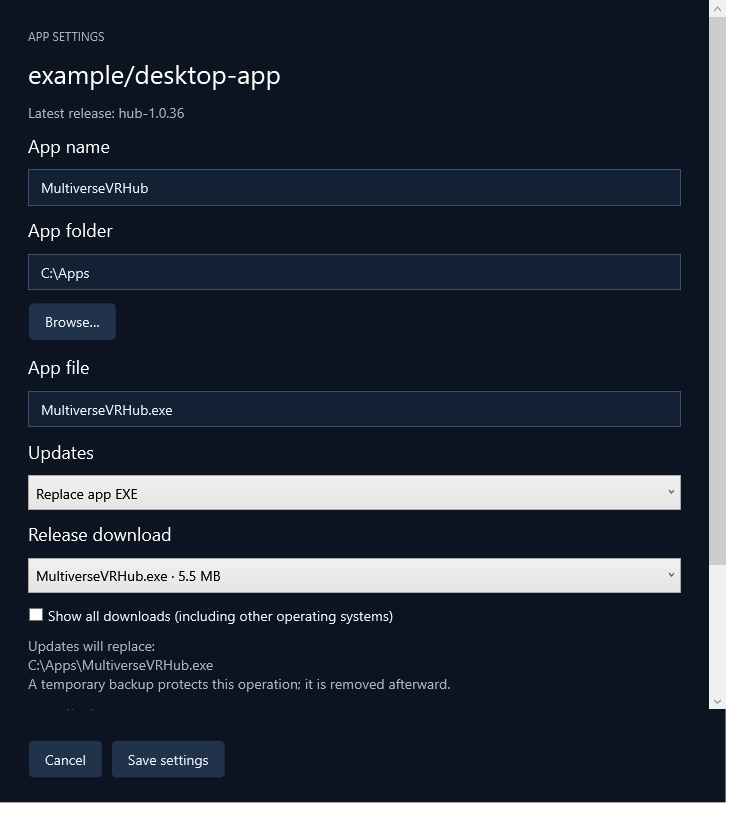
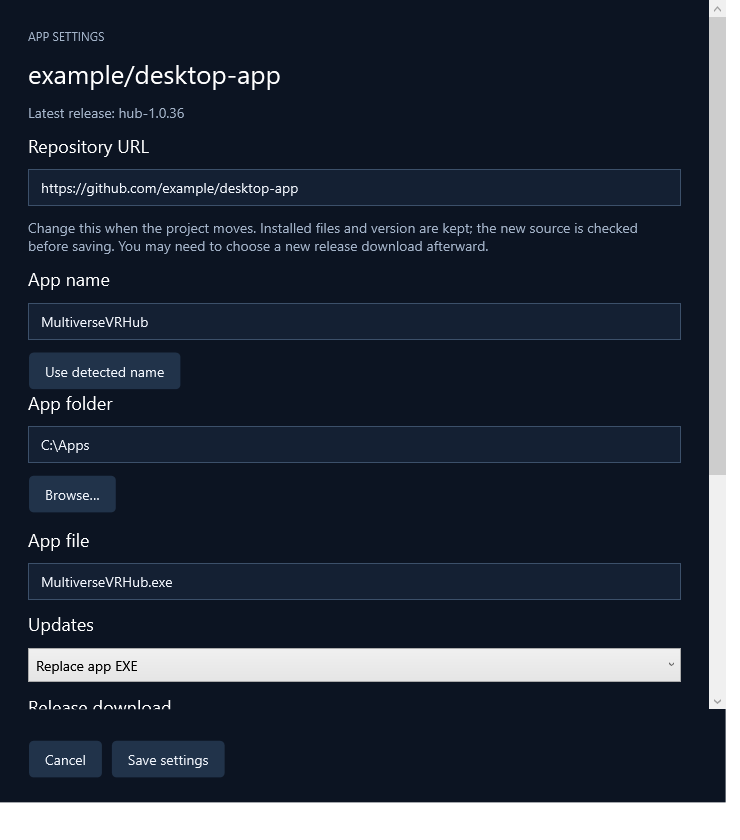
Fix automatic app names and support repository URL migration

diff --git a/ReleaseDock/MainWindow.xaml b/ReleaseDock/MainWindow.xaml
@@ -12,7 +12,7 @@
    <Border Grid.Column="2" Background="#142033" CornerRadius="12" Padding="24">
     <ScrollViewer VerticalScrollBarVisibility="Auto" HorizontalScrollBarVisibility="Disabled"><StackPanel>
      <TextBlock x:Name="AppTitle" Text="Bring your apps aboard." FontSize="26" FontWeight="SemiBold" TextWrapping="Wrap"/>
-     <TextBlock x:Name="SourceLabel" Foreground="#A4B4C9" Margin="0,6,0,0" TextWrapping="Wrap"/><TextBlock x:Name="VersionLabel" Text="Choose Add App to track an existing installation or install something new from a supported release host." Foreground="#A4B4C9" Margin="0,12,0,16" TextWrapping="Wrap"/>
+     <TextBlock Foreground="#A4B4C9" Margin="0,6,0,0" TextWrapping="Wrap"><Hyperlink x:Name="RepositoryLink" Foreground="#76DCC6" Click="Repository_Click"><Run x:Name="SourceLabel"/></Hyperlink></TextBlock><TextBlock x:Name="VersionLabel" Text="Choose Add App to track an existing installation or install something new from a supported release host." Foreground="#A4B4C9" Margin="0,12,0,16" TextWrapping="Wrap"/>
      <StackPanel x:Name="Details" Visibility="Collapsed">
       <TextBlock x:Name="StateLabel" Foreground="#76DCC6" FontSize="18" Margin="0,0,0,16"/>
       <Border x:Name="MissingBanner" Visibility="Collapsed" Background="#352D20" BorderBrush="#F0D495" BorderThickness="1" CornerRadius="6" Padding="16" Margin="0,0,0,18"><StackPanel><TextBlock Text="App not found" Foreground="#F0D495" FontSize="22" FontWeight="SemiBold"/><TextBlock x:Name="MissingMessage" TextWrapping="Wrap" Margin="0,8,0,12"/><WrapPanel><Button x:Name="FindInstallationButton" Content="Find installation…" Click="FindInstallation_Click" Background="#267E70"/><Button Content="Stop tracking" Click="Remove_Click"/></WrapPanel></StackPanel></Border><WrapPanel><Button x:Name="UpdateButton" Content="Update" Background="#267E70" Click="Update_Click" ToolTipService.ShowOnDisabled="True"/><Button Content="Release notes ↗" Click="Release_Click"/><Button x:Name="AppSettingsButton" Content="App settings" Click="AppSettings_Click"/></WrapPanel>

diff --git a/ReleaseDock/AppSettingsPage.cs b/ReleaseDock/AppSettingsPage.cs
@@ -17,13 +17,25 @@ public sealed class AppSettingsPage
     private readonly StackPanel filePanel, manualPanel;
     private readonly Window owner;
     private string checkedSource = "", checkedVersion = "", checkedFile = "";
+    private bool customName, updatingName;
+    private readonly TextBox? repository;
+    public string RepositoryKey => repository == null ? app.Repo : Repositories.Parse(repository.Text);
     public StackPanel Panel { get; } = new();
     private static void Name(DependencyObject control, string label) => System.Windows.Automation.AutomationProperties.SetName(control, label);
-    public AppSettingsPage(Window owner, TrackedApp app)
+    public AppSettingsPage(Window owner, TrackedApp app, bool allowRepositoryEdit = false)
     {
         this.owner = owner; this.app = app; draft = AppLocationDraft.From(app);
+        if (allowRepositoryEdit)
+        {
+            Panel.Children.Add(Ui.Text("Repository URL", 18));
+            repository = Ui.Input(app.RepositoryUrl); Name(repository, "Repository URL"); Panel.Children.Add(repository);
+            Panel.Children.Add(Ui.Text("Change this when the project moves. Installed files and version are kept; the new source is checked before saving. You may need to choose a new release download afterward.", muted: true));
+        }
         Panel.Children.Add(Ui.Text("App name", 18));
         appName = Ui.Input(app.AppName); Name(appName, "App name"); Panel.Children.Add(appName);
+        customName = !string.IsNullOrWhiteSpace(app.CustomName);
+        appName.TextChanged += (_, _) => { if (!updatingName) customName = !string.IsNullOrWhiteSpace(appName.Text); };
+        Panel.Children.Add(Ui.Button("Use detected name", (_, _) => { customName = false; Refresh(); }));
         Panel.Children.Add(Ui.Text("App folder", 18));
         folder = Ui.Input(draft.Folder); Name(folder, "App folder"); Panel.Children.Add(folder);
         Panel.Children.Add(Ui.Button("Browse…", (_, _) => { var picker = new OpenFolderDialog { Title = "Choose the app folder" }; if (picker.ShowDialog(owner) == true) folder.Text = picker.FolderName; }));
@@ -72,6 +84,12 @@ public sealed class AppSettingsPage
     private void Refresh()
     {
         ReadLocation(); filePanel.Visibility = Method == "ReplaceExe" || draft.FileName.Length > 0 ? Visibility.Visible : Visibility.Collapsed;
+        if (!customName)
+        {
+            updatingName = true;
+            try { appName.Text = AppNames.Suggest(new TrackedApp { Repo = app.Repo, AppFolder = draft.Folder, AppFile = draft.FileName, InstallLocation = draft.Folder }); }
+            finally { updatingName = false; }
+        }
         manualPanel.Visibility = automatic.IsChecked == true ? Visibility.Collapsed : Visibility.Visible;
         sourceLabel.Text = "Version source: " + (draft.VersionSource.Length > 0 ? draft.VersionSource : "App location (not set)");
         detected.Text = automatic.IsChecked == true ? checkedSource == draft.VersionSource && checkedSource.Length > 0 ? checkedVersion + " · Automatic detection\nRead from " + Path.GetFileName(checkedFile) : "Not checked for this location · Automatic detection" : (manual.Text.Length > 0 ? manual.Text : "Unknown") + " · Manual tracking";
@@ -97,19 +115,29 @@ public sealed class AppSettingsPage
     }
     public void Save(bool validate = true)
     {
-        app.CustomName = appName.Text.Trim();
+        var source = RepositoryKey;
+        var sourceChanged = !source.Equals(app.Repo, StringComparison.OrdinalIgnoreCase);
+        app.CustomName = customName ? appName.Text.Trim() : "";
+        if (!customName) app.InvalidateSuggestedName();
         if (!validate) { CaptureDraft(); return; }
         ReadLocation(); draft.Apply(app, Method);
         app.AutoReconcile = automatic.IsChecked == true; app.IncludePrereleases = previews.IsChecked == true;
         if (app.Installed != manual.Text.Trim()) app.InstalledProvenance = "Manually entered installed version";
         app.Installed = manual.Text.Trim();
-        if (assets.SelectedItem is ComboBoxItem { Tag: Asset asset }) { app.AssetName = asset.Name; if (validate) ReleaseFiles.Validate(app, asset); }
-        else if (validate && Method != "Manual") throw new InvalidOperationException("Choose a release download or use Download only.");
+        if (assets.SelectedItem is ComboBoxItem { Tag: Asset asset }) { app.AssetName = asset.Name; if (validate && !sourceChanged) ReleaseFiles.Validate(app, asset); }
+        else if (validate && !sourceChanged && Method != "Manual") throw new InvalidOperationException("Choose a release download or use Download only.");
         InstalledVersions.Reconcile(app);
+        if (sourceChanged)
+        {
+            app.Repo = source; app.Release = null; app.Latest = ""; app.CheckedAt = null; app.Error = "";
+            app.AssetName = ""; app.LastNotifiedTag = ""; app.DownloadedPath = ""; app.DownloadedTag = "";
+            app.UpdateState = "Repository changed — checking the new source";
+        }
     }
     public void CaptureDraft()
     {
-        app.CustomName = appName.Text.Trim();
+        app.CustomName = customName ? appName.Text.Trim() : "";
+        if (!customName) app.InvalidateSuggestedName();
         ReadLocation(); app.AppFolder = draft.Folder; app.AppFile = draft.FileName; app.VersionSourceOverride = draft.SourceOverride;
         app.PendingLocationConflict = draft.Conflict; app.UpdateMethod = Method;
         if (app.Installed != manual.Text.Trim()) app.InstalledProvenance = "Manually entered installed version";

diff --git a/ReleaseDock/AppSettingsTests.cs b/ReleaseDock/AppSettingsTests.cs
@@ -25,6 +25,30 @@ public static class AppSettingsTests
         try
         {
             var exe = Path.Combine(root, "MultiverseVRHub.exe");
+            var shared = Path.Combine(root, "apps"); Directory.CreateDirectory(shared);
+            File.WriteAllBytes(Path.Combine(shared, "MultiverseVRHub.exe"), PortableExeFixture.Bytes());
+            var coderFolder = Path.Combine(shared, "coder"); Directory.CreateDirectory(coderFolder);
+            File.WriteAllBytes(Path.Combine(coderFolder, "Coder.exe"), PortableExeFixture.Bytes());
+            var naming = new TrackedApp { Repo = "coder/coder", InstallLocation = shared };
+            var namingPage = new AppSettingsPage(owner, naming);
+            Check(Input(namingPage, "App name").Text == "coder", "Shared parent cannot supply unrelated EXE name");
+            Input(namingPage, "App folder").Text = coderFolder;
+            Check(Input(namingPage, "App name").Text == "Coder", "Automatic name refreshes for new folder");
+            namingPage.Save(); Check(naming.CustomName == "" && naming.AppName == "Coder", "Suggested name not saved as explicit override");
+            Input(namingPage, "App name").Text = "My Coder"; Input(namingPage, "App folder").Text = shared; namingPage.Save();
+            Check(naming.CustomName == "My Coder", "Deliberate name survives location changes");
+            Input(namingPage, "App folder").Text = coderFolder;
+            Find<Button>(namingPage.Panel).Single(b => Equals(b.Content, "Use detected name")).RaiseEvent(new RoutedEventArgs(Button.ClickEvent));
+            namingPage.Save(); Check(naming.CustomName == "" && naming.AppName == "Coder", "Detected-name action clears old override");
+            var movedSource = new AppSettingsPage(owner, naming, allowRepositoryEdit: true);
+            Check(Input(movedSource, "Repository URL").Text == "https://github.com/coder/coder", "Full canonical URL shown in settings");
+            naming.AssetName = "old.zip"; naming.Latest = "old"; naming.DownloadedPath = "old-cache";
+            Input(movedSource, "Repository URL").Text = "https://gitlab.com/group/subgroup/coder/-/releases"; movedSource.Save();
+            Check(naming.Repo == "https://gitlab.com/group/subgroup/coder" && naming.InstallLocation == coderFolder, "Cross-provider source move preserves install path");
+            Check(naming.AssetName == "" && naming.Latest == "" && naming.DownloadedPath == "", "Old source download/cache state cleared");
+            Input(movedSource, "Repository URL").Text = "https://untrusted.example/coder/coder";
+            try { movedSource.Save(); throw new Exception("Unsupported repository accepted"); } catch (ArgumentException) { Assertions++; }
+            Check(naming.Repo.StartsWith("https://gitlab.com/"), "Invalid source change preserves saved repository");
             var app = new TrackedApp { Repo = "test/app", Installed = "1.0.36.0", Latest = "hub-1.0.36", InstallLocation = exe, Release = new("hub-1.0.36", "", "", [new("MultiverseVRHub.exe", "", 3, null)]), AssetName = "MultiverseVRHub.exe" };
             var page = new AppSettingsPage(owner, app);
             Check(Input(page, "App name").Text == "MultiverseVRHub", "Settings suggest the installed EXE name");

diff --git a/ReleaseDock/SourceWizardTests.cs b/ReleaseDock/SourceWizardTests.cs
@@ -30,6 +30,30 @@ public static class SourceWizardTests
     {
         Assertions = 0;
         var handler = new Handler(); using var client = new ReleaseClient(handler);
+        var original = new TrackedApp { Repo = "owner/old", CustomName = "My App", Installed = "v1", UpdateMethod = "Manual" };
+        var edit = new SetupWindow(client, [], edit: original) { ShowActivated = false, WindowStartupLocation = WindowStartupLocation.Manual, Left = -20000, Top = -20000 };
+        try
+        {
+            Find<TextBox>(edit).Single(t => System.Windows.Automation.AutomationProperties.GetName(t) == "Repository URL").Text = "https://codeberg.org/owner/new";
+            var requests = handler.Requests;
+            _ = edit.Dispatcher.InvokeAsync(() => Find<Button>(edit).Single(b => Equals(b.Content, "Save settings")).RaiseEvent(new RoutedEventArgs(Button.ClickEvent)), System.Windows.Threading.DispatcherPriority.ApplicationIdle);
+            var timer = new System.Windows.Threading.DispatcherTimer { Interval = TimeSpan.FromSeconds(5) }; timer.Tick += (_, _) => { timer.Stop(); edit.Close(); }; timer.Start();
+            try { Check(edit.ShowDialog() == true, "Repository migration saves through real modal flow"); } finally { timer.Stop(); }
+            Check(handler.Requests == requests + 1 && edit.Result.Repo == "https://codeberg.org/owner/new", "New provider verified before settings accepted");
+            Check(original.Repo == "owner/old" && edit.Result.CustomName == "My App", "Source editing preserves original until accepted and keeps explicit name");
+        }
+        finally { edit.Close(); }
+        var editDuplicate = new SetupWindow(client, ["https://codeberg.org/owner/new"], edit: original);
+        try
+        {
+            Find<TextBox>(editDuplicate).Single(t => System.Windows.Automation.AutomationProperties.GetName(t) == "Repository URL").Text = "https://codeberg.org/owner/new";
+            var requests = handler.Requests;
+            Find<Button>(editDuplicate).Single(b => Equals(b.Content, "Save settings")).RaiseEvent(new RoutedEventArgs(Button.ClickEvent));
+            await Task.Delay(20);
+            Check(handler.Requests == requests && editDuplicate.Result.Repo == "owner/old", "Duplicate source rejected without network request or source mutation");
+            Check(Find<TextBlock>(editDuplicate).Any(t => t.Text.Contains("already tracked")), "Duplicate source explains recovery");
+        }
+        finally { editDuplicate.Close(); }
         foreach (var project in new[] { "https://codeberg.org/owner/app/releases", "https://gitlab.com/group/subgroup/app/-/releases" })
         {
             var window = new SetupWindow(client, []);

diff --git a/ReleaseDock/MainWindow.xaml.cs b/ReleaseDock/MainWindow.xaml.cs
@@ -154,7 +154,7 @@ public partial class MainWindow : Window
         VersionSection.IsEnabled = UninstallButton.IsEnabled = RecoveryButton.IsEnabled = RemoveButton.IsEnabled = !busy;
         Details.Visibility = app == null ? Visibility.Collapsed : Visibility.Visible;
         AppTitle.Text = app?.AppName ?? "Bring your apps aboard.";
-        SourceLabel.Text = app?.ProjectLabel ?? "";
+        SourceLabel.Text = app?.RepositoryUrl ?? "";
         VersionLabel.Text = app?.Versions ?? "Choose Add App to track an existing installation or install something new from a supported release host.";
         StateLabel.Text = app?.DisplayStatus ?? "";
         var missing = app?.InstallationMissing == true;
@@ -230,7 +230,7 @@ public partial class MainWindow : Window
     private async void AppSettings_Click(object sender, RoutedEventArgs e)
     {
         if (busy || Current is not { } app || preview) return;
-        var wizard = new SetupWindow(github, [], app) { Owner = this };
+        var wizard = new SetupWindow(github, apps.Where(a => a != app).Select(a => a.Repo), app) { Owner = this };
         if (wizard.ShowDialog() != true) return;
         var index = apps.IndexOf(app); apps[index] = wizard.Result; Library.SelectedItem = wizard.Result; busy = true;
         try { await Fetch(wizard.Result); SafePersist(); } finally { busy = false; Render(); }
@@ -303,6 +303,11 @@ public partial class MainWindow : Window
         finally { operation.Dispose(); operation = null; busy = false; Progress.IsIndeterminate = false; Progress.Visibility = Visibility.Collapsed; CancelDownload.Visibility = Visibility.Collapsed; Render(); }
     }
     private void Cancel_Click(object sender, RoutedEventArgs e) => operation?.Cancel();
+    private void Repository_Click(object sender, RoutedEventArgs e)
+    {
+        if (Current is not { } app) return;
+        try { Process.Start(new ProcessStartInfo(app.RepositoryUrl) { UseShellExecute = true }); } catch (Exception ex) { StatusLabel.Text = ex.Message; }
+    }
     private void Release_Click(object sender, RoutedEventArgs e)
     {
         if (Current is not { } app) return;

diff --git a/ReleaseDock/SetupWindow.cs b/ReleaseDock/SetupWindow.cs
@@ -152,7 +152,7 @@ public sealed class SetupWindow : Window
         body.Children.Add(Ui.Text(editing ? "APP SETTINGS" : "ADD APP · 2 OF 2", 12, true));
         body.Children.Add(Ui.Text(Result.ProjectLabel, 26));
         body.Children.Add(Ui.Text("Latest release: " + (Result.Latest.Length > 0 ? Result.Latest : "unavailable"), muted: true));
-        var editor = new AppSettingsPage(this, Result); body.Children.Add(editor.Panel);
+        var editor = new AppSettingsPage(this, Result, allowRepositoryEdit: editing); body.Children.Add(editor.Panel);
         message = Ui.Text("", muted: true);
         var row = new WrapPanel();
         row.Children.Add(Ui.Button(editing ? "Cancel" : "← Back", (_, _) =>
@@ -160,10 +160,22 @@ public sealed class SetupWindow : Window
             try { if (editing) Close(); else { editor.Save(false); ScreenOne(); } }
             catch (Exception ex) { message.Text = ex.Message; }
         }));
-        row.Children.Add(Ui.Button(editing ? "Save settings" : "Add App", (_, _) =>
+        row.Children.Add(Ui.Button(editing ? "Save settings" : "Add App", async (_, _) =>
         {
-            try { editor.Save(); completed = true; DialogResult = true; }
+            if (working) return;
+            working = true; row.IsEnabled = false;
+            try
+            {
+                var source = editor.RepositoryKey;
+                if (editing && !source.Equals(Result.Repo, StringComparison.OrdinalIgnoreCase))
+                {
+                    if (existing.Contains(source)) throw new InvalidOperationException("That repository is already tracked. Choose its existing library entry instead.");
+                    message.Text = "Checking the new repository…"; await github.VerifyRepository(source);
+                }
+                editor.Save(); working = false; completed = true; DialogResult = true;
+            }
             catch (Exception ex) { message.Text = ex.Message; }
+            finally { working = false; row.IsEnabled = true; }
         }));
         FixedFooter(row);
     }

diff --git a/ReleaseDock/AppNames.cs b/ReleaseDock/AppNames.cs
@@ -7,13 +7,22 @@ public static class AppNames
     public static string Suggest(TrackedApp app)
     {
         var draft = AppLocationDraft.From(app);
-        var path = draft.FileName.Length > 0 ? Path.Combine(draft.Folder, draft.FileName) : app.InstallLocation;
+        var path = draft.FileName.Length > 0 ? Path.Combine(draft.Folder, draft.FileName) : draft.Folder;
         try
         {
             if (Directory.Exists(path))
             {
                 var files = Directory.EnumerateFiles(path, "*.exe").Where(p => !Regex.IsMatch(Path.GetFileName(p), "unins|setup|install|update|crash", RegexOptions.IgnoreCase)).Take(2).ToList();
-                if (files.Count == 1) path = files[0];
+                if (files.Count == 1)
+                {
+                    static string Identity(string name) => Regex.Replace(name.ToLowerInvariant(), "[^a-z0-9]", "");
+                    var repoName = app.Repo.Length > 0 ? Identity(Repositories.Resolve(app.Repo).Path.Split('/').Last()) : "";
+                    var folderName = Identity(Path.GetFileName(Path.TrimEndingDirectorySeparator(path)));
+                    var info = FileVersionInfo.GetVersionInfo(files[0]);
+                    var identities = new[] { Identity(Path.GetFileNameWithoutExtension(files[0])), Identity(info.ProductName ?? ""), Identity(info.FileDescription ?? "") };
+                    // A shared parent with one unrelated EXE is not the app.
+                    if (identities.Any(n => n.Length > 0 && (n == repoName || n == folderName))) path = files[0];
+                }
             }
             if (File.Exists(path) && Path.GetExtension(path).Equals(".exe", StringComparison.OrdinalIgnoreCase))
             {

diff --git a/ReleaseDock/Core.cs b/ReleaseDock/Core.cs
@@ -10,9 +10,11 @@ namespace ReleaseDock;
 public sealed class TrackedApp
 {
     public string Repo { get; set; } = "";
+    [JsonIgnore] public string RepositoryUrl => Repo.Length > 0 ? Repositories.Resolve(Repo).WebUrl : "";
     public string CustomName { get; set; } = "";
     private string nameKey = "", suggestedName = "";
-    [JsonIgnore] public string AppName { get { if (!string.IsNullOrWhiteSpace(CustomName)) return CustomName.Trim(); var key = Repo + "|" + AppFolder + "|" + AppFile + "|" + InstallLocation + "|" + AssetName; if (key != nameKey) { nameKey = key; suggestedName = AppNames.Suggest(this); } return suggestedName; } }
+    internal void InvalidateSuggestedName() => nameKey = "";
+    [JsonIgnore] public string AppName { get { if (!string.IsNullOrWhiteSpace(CustomName)) return CustomName.Trim(); var key = Repo + "|" + AppFolder + "|" + AppFile + "|" + InstallLocation + "|" + UpdateTarget + "|" + AssetName; if (key != nameKey) { nameKey = key; suggestedName = AppNames.Suggest(this); } return suggestedName; } }
     [JsonIgnore] public string ProjectLabel { get { if (Repo.Length == 0) return ""; var source = Repositories.Resolve(Repo); return source.Path + (source.Host == "github.com" ? "" : " · " + source.Name); } }
     public string Installed { get; set; } = "";
     public string Latest { get; set; } = "";

diff --git a/ReleaseDock/SetupPaths.cs b/ReleaseDock/SetupPaths.cs
@@ -28,6 +28,7 @@ public static class SetupPaths
     public static void ClearExistingTracking(TrackedApp app)
     {
         app.Installed = ""; app.InstallLocation = ""; app.AutoReconcile = false;
+        app.AppFolder = ""; app.AppFile = ""; app.VersionSourceOverride = ""; app.InstallationMissing = false;
         app.LocalError = false; app.LocalStatus = ""; app.InstalledProvenance = "";
         app.UpdateTarget = ""; app.UpdateMethod = "Manual"; app.UpdateState = "";
         app.PendingLocationConflict = false;

diff --git a/TRACKER.md b/TRACKER.md
@@ -205,3 +205,10 @@
 - Self-updates now retain rollback until a post-window-load health acknowledgment, then commit before repointing references. Cleanup protects tracked installation/version paths; uninstall requires app identity and rejects junction ancestors; MSI attached-quote commands normalize correctly. ZIP extraction validates bytes+CRC and rejects concurrent new destination overwrites; downloads stop known-size overruns; invalid/non-PE portable EXEs are rejected before replacement.
 - Added original vector G icon, multi-size ICO/PNG, repeatable C# icon generator, executable/window/tray integration and README branding. Generator help/generation checked; release build has no warnings/errors.
 - Full single-EXE packaged suite passed:48 self-update,6 ZIP folder,10 missing-installation,12 cleanup,26 identity/uninstall,19 compatibility,80 feature,17 wizard/tray,30 portable,31 settings,31 source,11 source-wizard and19 discovery assertions, plus original regression suite. Release script separately validates tag identities and both primary/compatibility output locks, and removes redundant local compatibility copies after verified publication.
+
+## 2026-11-01 — 0.5.2: naming correction and editable repository URLs
+
+- User reported coder/coder labeled Multiverse VR Hub after a ZIP install. Read-only inspection confirmed Coder's actual EXE metadata and install/version were correct but a wrong CustomName override had been saved. Their running UI already showed Coder when inspected, so no user data was changed.
+- Fixed suggested names becoming persistent overrides on save; automatic suggestions refresh with location edits, explicit custom names remain intact, and Use detected name clears old overrides. Folder suggestions require corroborated file/metadata identity instead of selecting a lone unrelated EXE in a shared parent. Fresh-install switching clears stale folder/file/source fields.
+- User requested the full source URL in the selected-app view and editable in App settings, including provider moves. Added clickable full URL and verified source edits, duplicate checks, and clearing old-source release/asset/cache state while preserving install paths/version. Failed or cancelled edits leave original entry unchanged. Reselect new-source download after migration.
+- Packaged full suite passed, including41 settings assertions and16 source-wizard assertions with real modal save and duplicate/provider-move coverage. Updated sample-data screenshots and user guide. Publishing0.5.2 via the release script.

diff --git a/docs/user-guide.md b/docs/user-guide.md
@@ -62,6 +62,7 @@ Temporary rollback copies protect a file update while it is applied. Completed u
 
 ## Installed versions
 
+
 EXE detection reads `ProductVersion`, falling back to `FileVersion`, without executing the file. For a folder, GROUT tries:
 
 1. `release-manifest.json`
@@ -137,3 +138,9 @@ Download **GROUT.exe**. Its filename stays the same as the installed version cha
 The first self-update from an older `GROUT-<version>-win-x64.exe` installation moves it to `GROUT.exe` in the same folder. Matching startup, desktop, Start menu and taskbar shortcut entries are repaired after the new app confirms healthy startup; then the old EXE is removed. Custom shortcuts elsewhere may need updating manually. If another GROUT.exe already exists in the folder, the update stops before closing the old instance and leaves both files unchanged.
 
 A separately labeled versioned release asset is an identical compatibility copy for older self-updaters. Choose GROUT.exe for a new download.
+
+## App names and repository moves
+
+The selected app shows its full repository URL beneath its name; click it to open the project. In App settings, edit **Repository URL** if the project moves, including to another supported provider. GROUT verifies the new project and rejects duplicates before saving. Installed files, destination and installed version are retained, while the old source's release/download selection is cleared. Choose the appropriate download from the new source afterward.
+
+Suggested app names remain automatic and refresh when the install location changes. Typing a custom name makes it an explicit override. **Use detected name** clears the override and returns to the current app's name. A shared parent folder is not used to borrow an unrelated program's identity. Overrides saved by older versions are preserved until you reset them, so intentional custom names are not lost.

diff --git a/releases/v0.5.2.md b/releases/v0.5.2.md
@@ -1,0 +1,14 @@
+### Repository links and moves
+
+- The selected app shows its full repository URL below its name as a clickable link.
+- Edit **Repository URL** in App settings when a project moves, including between GitHub, Codeberg and GitLab.
+- GROUT verifies the new project before saving and rejects duplicate tracked sources. Installed files, update destination and installed version are kept. Old release/download selections are cleared so you can choose a package from the new source.
+
+### App naming fix
+
+- A shared parent folder no longer supplies the name of an unrelated EXE.
+- Automatically suggested names refresh when the install location changes and remain automatic after saving. Deliberately entered custom names are preserved.
+- **Use detected name** clears a previously saved override. Older overrides are preserved until explicitly reset because GROUT cannot distinguish an intentional custom name from an old automatic suggestion.
+- Switching from tracking an existing app to a fresh install clears the old location fields.
+
+The packaged regression suite includes shared-folder naming, custom-name preservation/reset, provider migration, duplicate-source rejection and the real settings save flow. Existing library and settings carry over.
